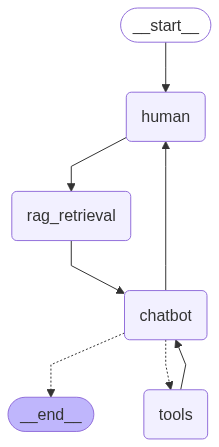
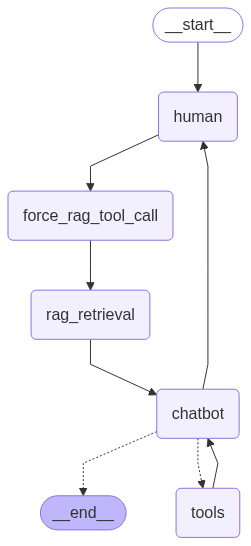
Major : Finally working !!

diff --git a/src/chatbot_agentic.py b/src/chatbot_agentic.py
@@ -5,6 +5,7 @@ Part of the FiddleJam hackathon to stress test Fiddler's agentic monitoring capa
 """
 
 import os
+from re import L
 import sys
 import uuid
 import logging
@@ -21,6 +22,7 @@ from langchain_core.tools import Tool
 from langchain_core.runnables.config import RunnableConfig
 from langchain_core.messages import HumanMessage, SystemMessage, AIMessage #, BaseMessage
 from langchain_openai import ChatOpenAI
+import uuid  # ensure uuid is imported for tool_call id
 
 from langgraph.graph import StateGraph, START, END
 from langgraph.prebuilt import ToolNode, tools_condition
@@ -78,14 +80,13 @@ PROJECT_ROOT = os.path.dirname(os.path.dirname(os.path.abspath(__file__)))  # Go
 with open(os.path.join(PROJECT_ROOT, "src", "system_instructions.md"), "r") as f:
     SYSTEM_INSTRUCTIONS_PROMPT = PromptTemplate.from_template(f.read().strip())
 
-logger.info("Initializing language model...")
 llm = ChatOpenAI(
     model="gpt-4o-mini",
     temperature=0.7,
     api_key=SecretStr(OPENAI_API_KEY) if OPENAI_API_KEY else None,
     )
+logger.info("✓ language model initialized successfully")
 
-logger.info("Initializing tools...")
 tools : List[Tool] = [
     Tool(
         name="get a system time",
@@ -93,6 +94,7 @@ tools : List[Tool] = [
         func=lambda: datetime.now().strftime("%Y-%m-%d %H:%M:%S"),
         )
     ]
+logger.info("✓ tools initialized successfully")
 
 
 rag_retriever_tool_selector = {
@@ -103,9 +105,8 @@ rag_retriever_tool_selector = {
 
 all_tools = tools + [make_local_rag_retriever_tool() , make_cassandra_rag_retriever_tool()]
 
-logger.debug("Binding tools to language model...")
 llm.bind_tools(all_tools)
-logger.debug("✓ Tools bound to language model successfully")
+logger.info("✓ Tools bound to language model successfully")
 
 
 def human_node(state: ChatbotState) -> Command:
@@ -129,7 +130,7 @@ def human_node(state: ChatbotState) -> Command:
         return Command(update={"messages": [HumanMessage(content="Goodbye!")]}, goto=END)
     
     # Return command with user input and next node
-    return Command( update={"messages": [HumanMessage(content=user_input)]}, goto="rag_retrieval" )
+    return Command( update={"messages": [HumanMessage(content=user_input)]}, goto="force_rag_tool_call" )
 
 # Enhanced chatbot node that can use retrieved context
 def chatbot_node(state: ChatbotState) -> Dict[str, Any]:
@@ -186,6 +187,22 @@ def chatbot_node(state: ChatbotState) -> Dict[str, Any]:
     # Return the updated state with the new AIMessage
     return {"messages": [ai_message]}
 
+def force_rag_tool_call_node(state: ChatbotState) -> Dict[str, Any]:
+    """
+    Node that takes the last HumanMessage and returns an AIMessage with a tool call for the RAG retriever.
+    """
+    if not state["messages"] or not isinstance(state["messages"][-1], HumanMessage):
+        raise ValueError("No HumanMessage found in state for tool call generation.")
+    user_msg = state["messages"][-1]
+    tool_call = {
+        "name": "local_data_corpus_retrieval_tool",
+        "args": {"query": user_msg.content},
+        "id": str(uuid.uuid4()),
+        "type": "tool_call"
+    }
+    ai_msg = AIMessage(content="", tool_calls=[tool_call])
+    return {"messages": [ai_msg]}
+
 def build_chatbot_graph():
     # Build the LangGraph workflow
     logger.info("Building LangGraph workflow...")
@@ -193,13 +210,15 @@ def build_chatbot_graph():
 
     # Component entities
     workflow_builder.add_node("human", human_node)
+    workflow_builder.add_node("force_rag_tool_call", force_rag_tool_call_node)
     workflow_builder.add_node("chatbot", chatbot_node)
     workflow_builder.add_node("tools", ToolNode(tools=tools))
     workflow_builder.add_node("rag_retrieval", rag_retriever_tool_selector["local"])
 
     # Define the graph flow
     workflow_builder.add_edge(START, "human")
-    workflow_builder.add_edge("human", "rag_retrieval")
+    workflow_builder.add_edge("human", "force_rag_tool_call")
+    workflow_builder.add_edge("force_rag_tool_call", "rag_retrieval")
     workflow_builder.add_edge("rag_retrieval", "chatbot")
     workflow_builder.add_conditional_edges("chatbot", tools_condition)
     workflow_builder.add_edge("tools", "chatbot")
@@ -251,7 +270,11 @@ def run_chatbot():
     
     set_conversation_id(chatbot_graph, session_id)  # for Fiddler monitoring
         
-    exec_state = ChatbotState(messages=[])
+    # Patch: Start with a HumanMessage if automation_messages is not empty
+    if automation_messages:
+        exec_state = ChatbotState(messages=[HumanMessage(content=automation_messages.pop(0))])
+    else:
+        exec_state = ChatbotState(messages=[])
 
     try:
         for yeilded_event in chatbot_graph.stream(exec_state, thread_config, stream_mode="values"):
